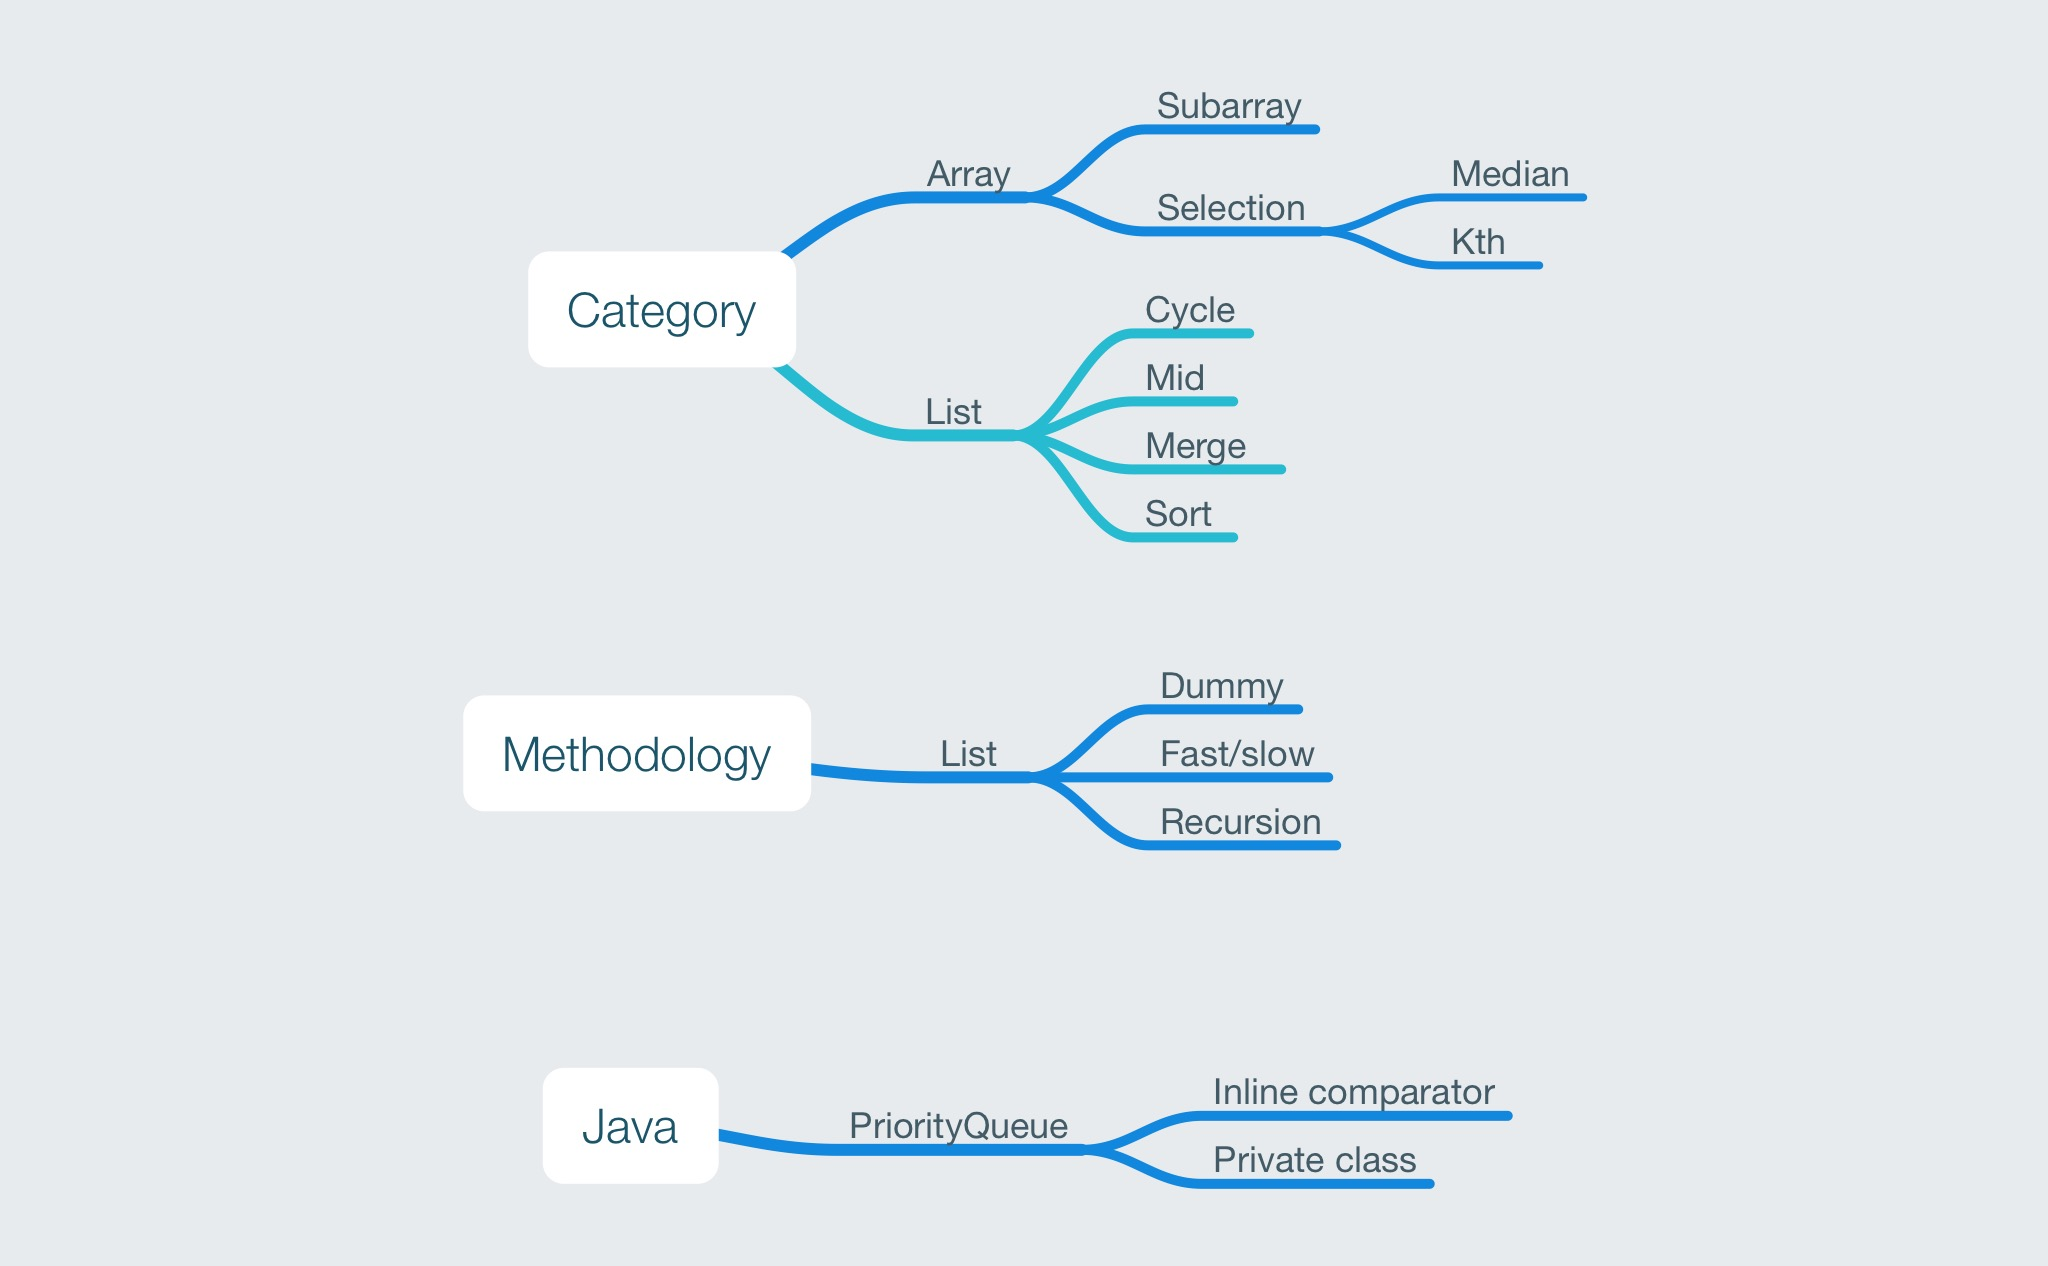
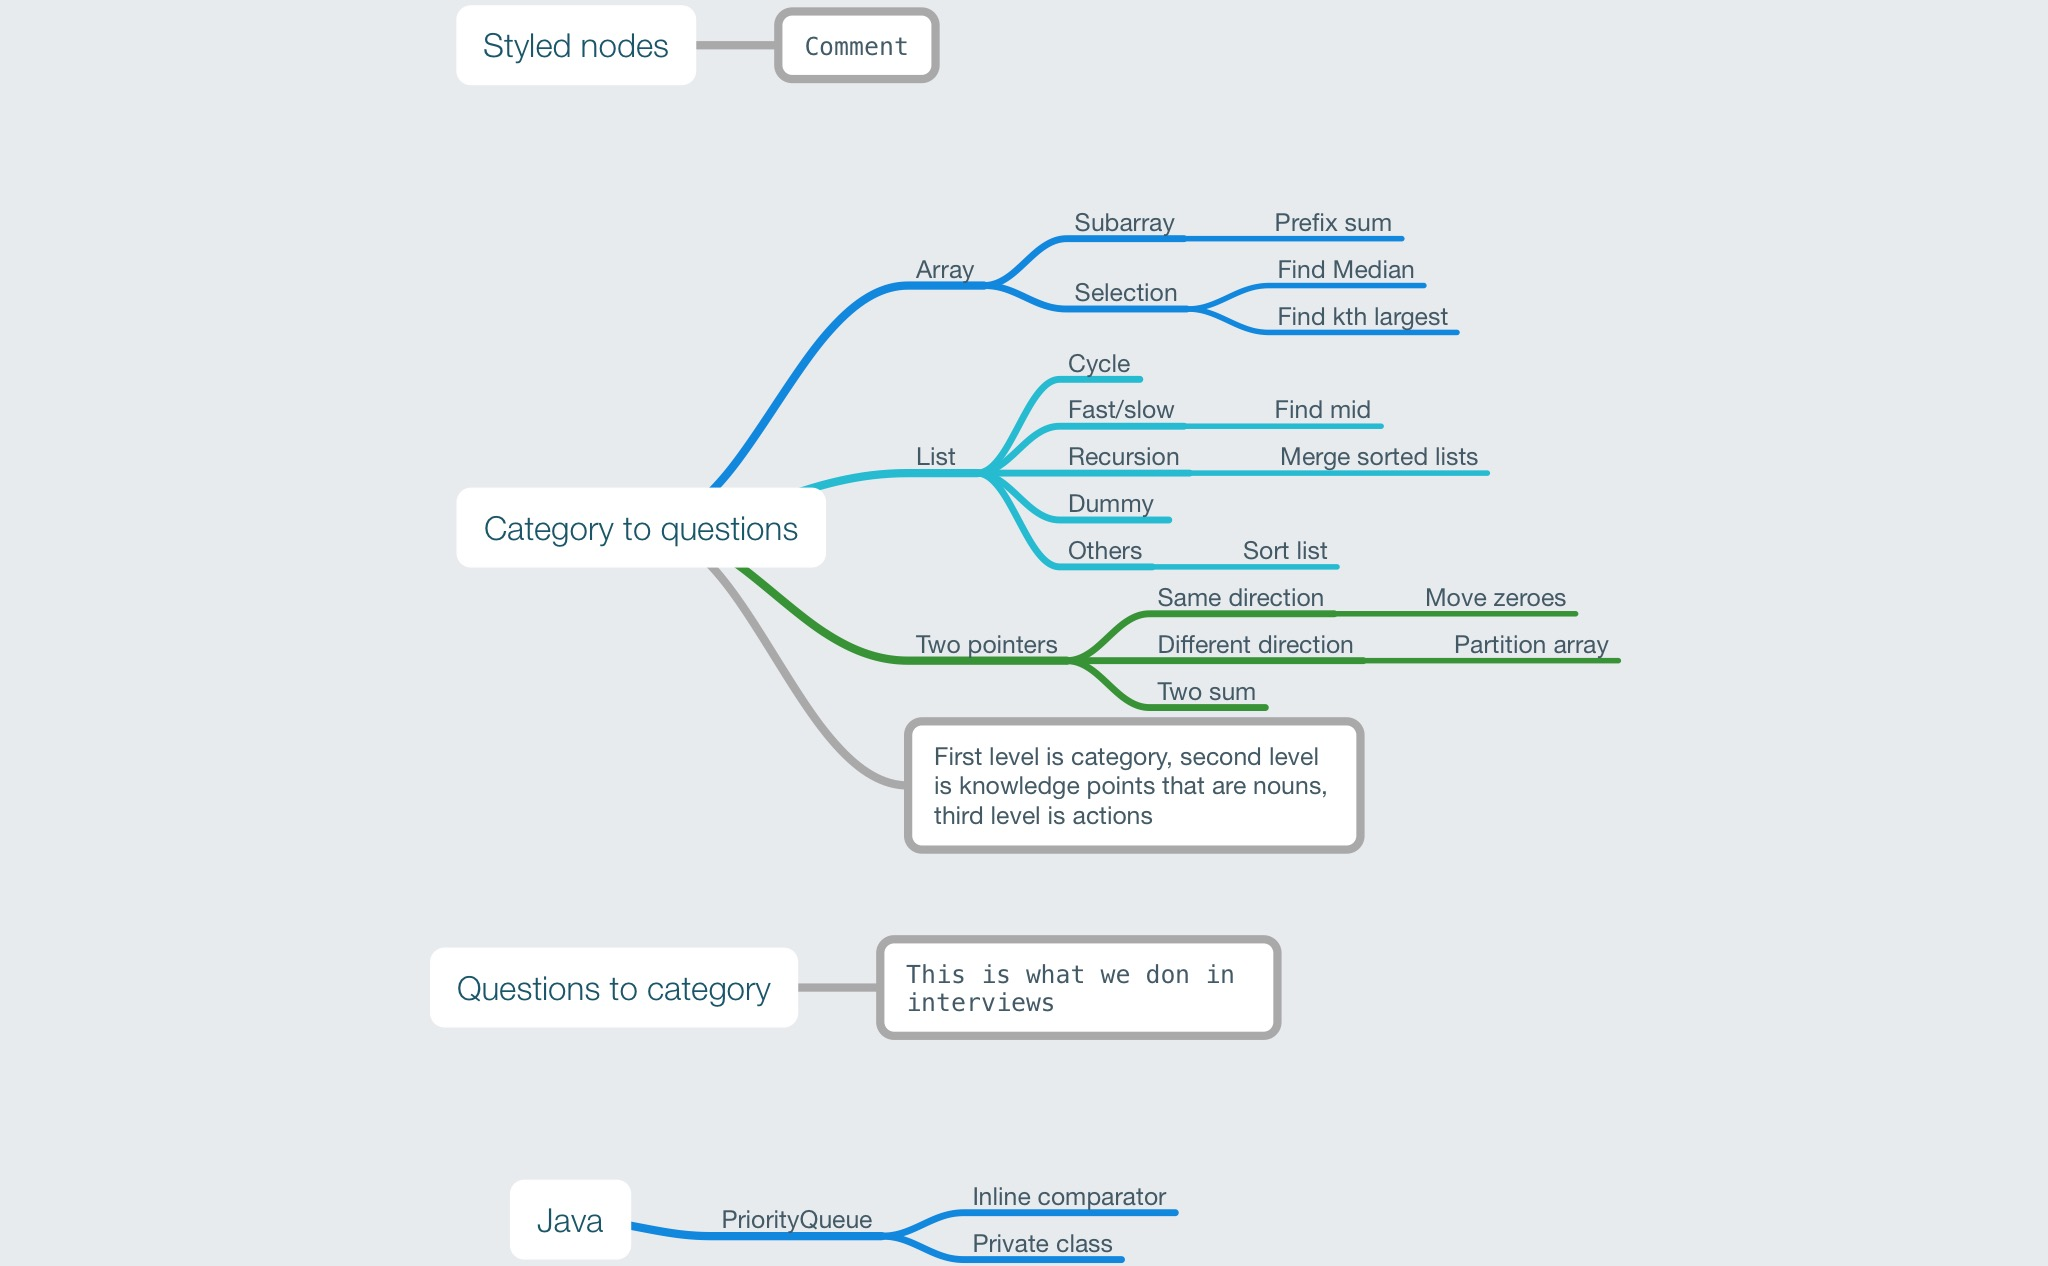
Added partition array

diff --git a/ListArray/SubarraySumClosest.md b/ListArray/SubarraySumClosest.md
@@ -10,10 +10,51 @@ Given an integer array, find a subarray with sum closest to zero. Return the ind
 
 ## Analysis
 
-
+There is not much trick actually, just use the subarray point and create a data structure to keep track of index, then we are done.
 
 ## Code
 
 ```java
+private class Pair {
+    public int index;
+    public int sum;
 
+    public Pair(int index, int sum) {
+        this.index = index;
+        this.sum = sum;
+    }
+}
+
+public int[] subarraySumClosest(int[] nums) {
+    // Subarray prefix sum
+    Pair[] prefixSum = new Pair[nums.length + 1];
+    prefixSum[0] = new Pair(0, 0);
+    for (int i = 0; i < nums.length; i++) {
+        prefixSum[i + 1] = new Pair(i + 1, prefixSum[i].sum + nums[i]);
+    }
+
+    // nlogn
+    Arrays.sort(prefixSum, new Comparator<Pair>(){
+        @Override
+        public int compare(Pair a, Pair b) {
+            return Integer.compare(a.sum, b.sum);
+        }
+    });
+    int cloestSum = Integer.MAX_VALUE;
+    int first = 0, last = 0;
+    // n
+    for (int i = 0; i < prefixSum.length - 1; i++) {
+        // System.out.println(prefixSum[i].sum);
+        // System.out.println(prefixSum[i].index);
+        int sum = prefixSum[i + 1].sum - prefixSum[i].sum;
+        if (sum < cloestSum) {
+            cloestSum = sum;
+            // 记住是前 i 个和前 i + 1个, 比如前3个减前1个, 那得到的 index 其实是[1,2]
+            first = prefixSum[i].index < prefixSum[i + 1].index ? prefixSum[i].index: prefixSum[i + 1].index;
+            last = prefixSum[i].index < prefixSum[i + 1].index ? prefixSum[i + 1].index - 1 : prefixSum[i].index - 1;
+        }
+    }
+
+    return new int[]{first, last};
+}
 ```

diff --git a/TwoPointers/PartitionArray.md b/TwoPointers/PartitionArray.md
@@ -1,0 +1,50 @@
+# [PartitionArray](http://lintcode.com/en/problem/partition-array/#)
+
+## Question
+
+![](https://i.imgur.com/3U3vJUS.jpg)
+
+## Examples
+
+Given [3,2,2,1] and k = 2, return 1.
+
+## Analysis
+
+Just a follow-up to quick select. But it's quite basic, it's not even using recursion. Actually still quick sort it the most complicated one.
+
+## Code
+
+```java
+public int partitionArray(int[] nums, int k) {
+    // [1,2], k = 1  [1,2], k = 2  [1,2] k = 3
+    int start = 0, end = nums.length - 1;
+    while (start <= end) {
+        while (start <= end && nums[start] < k) {
+            start++;
+        }
+
+        while (start <= end && nums[end] >= k) {
+            end--;
+        }
+
+        if (start <= end) {
+            swap(nums, start, end);
+            start++;
+            end--;
+        }
+    }
+
+    // Actually we don't need this, because at most start is nums.length
+    if (start >= nums.length) {
+        return nums.length;
+    }
+
+    return start;
+}
+
+private void swap(int[] nums, int x, int y) {
+    int temp = nums[x];
+    nums[x] = nums[y];
+    nums[y] = temp;
+}
+```

diff --git a/TwoPointers/Readme.md b/TwoPointers/Readme.md
@@ -12,11 +12,14 @@
 
 ## Category
 
-### Quick select
+### Partition
 
 - [KthLargestElement](KthLargestElement.md) ![hard][hard] ![must-have][must-have] ![star][star]
+- [PartitionArray](PartitionArray.md) ![must-have][must-have]
 
+### Two sum
 
+- [TwoSumDataStructure](TwoSumDataStructure.md) ![must-have][must-have]
 
 [must-have]: https://jaywcjlove.github.io/sb/ico/min-bibei.svg
 [recommended]: https://jaywcjlove.github.io/sb/ico/min-tuijian.svg

diff --git a/ListArray/Median.md b/ListArray/Median.md
@@ -1,0 +1,19 @@
+# [Median](http://lintcode.com/en/problem/median/)
+
+## Question
+
+Find median of an array.
+
+## Examples
+
+[4,5,1,2,3] => 3
+
+## Analysis
+
+Use quick select.
+
+## Code
+
+```java
+
+```

diff --git a/TwoPointers/TwoSumDataStructure.md b/TwoPointers/TwoSumDataStructure.md
@@ -1,0 +1,19 @@
+# [TwoSumDataStructure](link)
+
+## Question
+
+
+
+## Examples
+
+
+
+## Analysis
+
+
+
+## Code
+
+```java
+
+```
